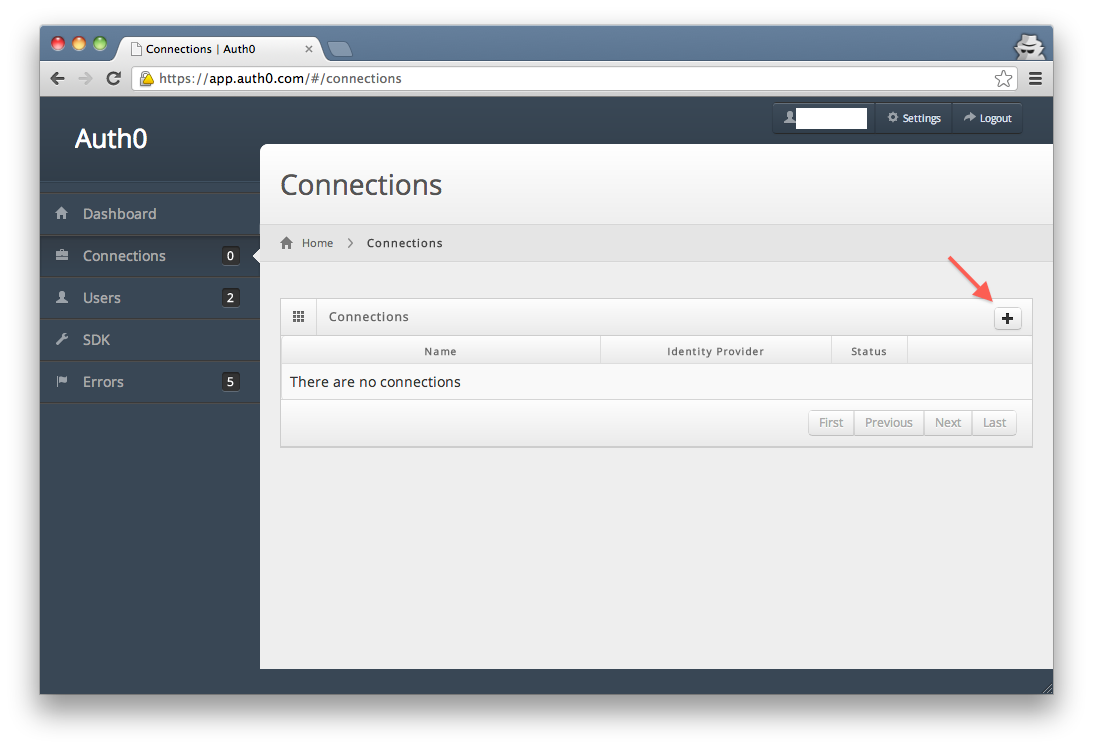
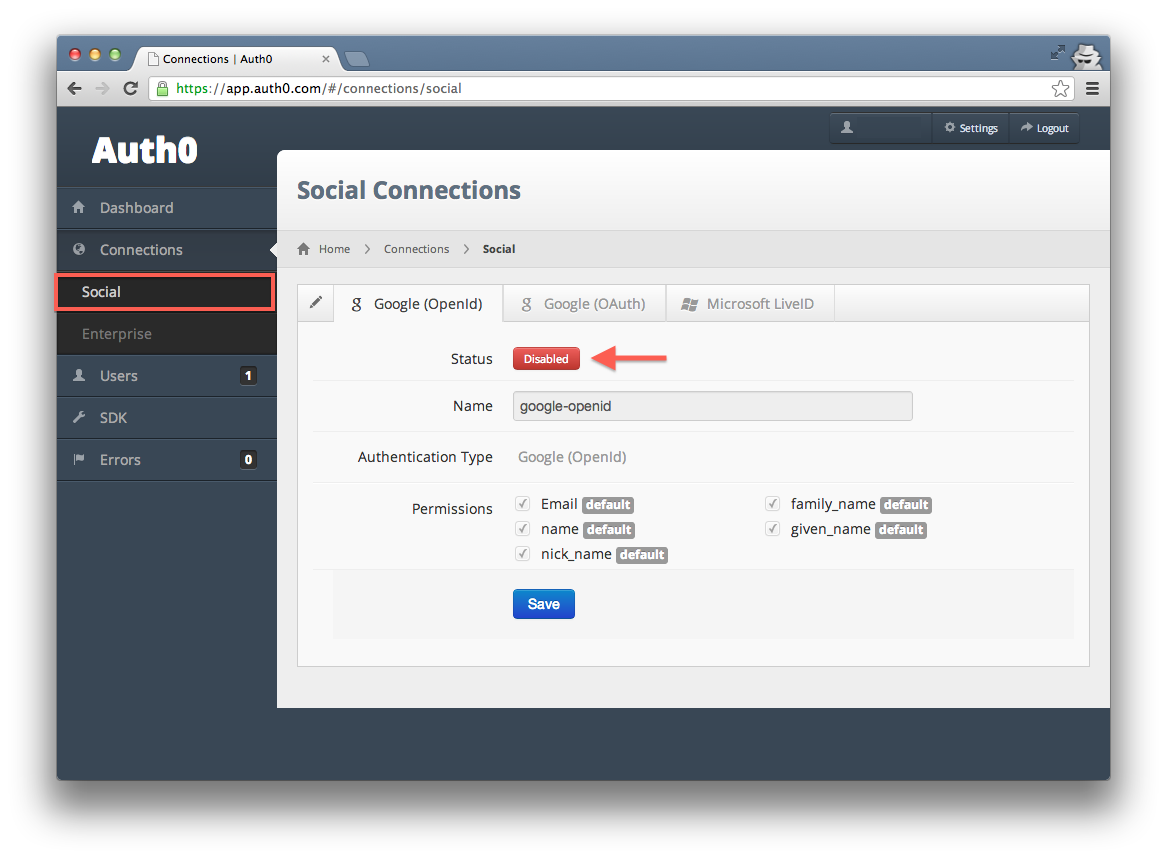
Fixed all connection related screenshots, updated all tutotrials

diff --git a/docs/mvc-tutorial.md b/docs/mvc-tutorial.md
@@ -1,6 +1,3 @@
----
-title: Auth0 and MVC4
----
 # Using Auth0 with ASP.NET MVC 4
 
 Integrating Auth0 with ASP.NET MVC4 is simple. MVC4 ships with out-of-the-box support for external identity providers using the [DotnetOpenAuth library](http://www.dotnetopenauth.net/). Auth0 plugs into this infrastructure.
@@ -8,40 +5,42 @@ Integrating Auth0 with ASP.NET MVC4 is simple. MVC4 ships with out-of-the-box su
 ##Before you start
 
 1. You will need Visual Studio 2012 and MVC4
-2. We also assume you have a [connection](https://app.auth0.com/#/connections) named "my-new-connection". If you don't have one, this [tutorial](createconnection) shows how to create one.
+2. We also assume you have Google OpenID enabled. If you haven't done so, this [tutorial](enable-simple-connection) shows how to do it.
 
 ##Integrating Auth0 with MVC4
 
 ####1. Create a simple MVC website and install Auth0 client
 
-For this example, we will use the standard template that ships with Visual Studio 2012. Just __"FILE -> New project -> MVC 4 Web Application"__
+For this example, we will use the standard template that ships with Visual Studio 2012. Select __"FILE -> New project -> MVC 4 Web Application"__
 
-Once the default template unfolds, use NuGet to install the Auth0Client:
+Once the default template unfolds, use NuGet to install the Auth0Client, running the command:
 
-![](http://markdownr.blob.core.windows.net/images/8210773982.png)
+	Install-Package Auth0Client
 
->__Auth0Client__ is a helper class that plugs into DotNetOpenAuth. Most of the heavylifting is actually done by the __OAuth2Client__ though. Our helper just makes sure you are using the right endpoints and sending the right parameters to Auth0.
+![](img/install-auth0client-nuget.png)
+
+> [__Auth0Client__](https://nuget.org/packages/Auth0Client) is a helper class that plugs into DotNetOpenAuth. Most of the heavylifting is actually done by the __OAuth2Client__ though. Our helper just makes sure you are using the right endpoints and sending the right parameters to Auth0.
 >
 
 ####2. Register Auth0Client in the Auth
 
-        public static class AuthConfig
+    public static class AuthConfig
+    {
+        public static void RegisterAuth()
         {
-            public static void RegisterAuth()
-            {
-                OAuthWebSecurity.RegisterClient(new Auth0Client(@@account.clientId@@, @@account.clientSecret@@}, @@account.namespace@@, "my-new-connection"), "Auth0", null);
+            OAuthWebSecurity.RegisterClient(new Auth0Client(@@account.clientId@@, @@account.clientSecret@@}, @@account.namespace@@, "google-openid"), "Auth0", null);
 
-                ...
+            ...
 
-            }
         }
+    }
 
-> Notice the `connection` parameter passed in the constructor of Auth0Client? This is used by Auth0 to determine which identity provider to use. This process is also known as the _"home realm discovery"_. The example above assumes you created a "my-new-connection" connection.  
+> Notice the `connection` parameter passed in the constructor of Auth0Client? This is used by Auth0 to determine which identity provider to use. This process is also known as the _"home realm discovery"_. The example above assumes you enabled the "google-openid" connection.  
 
 
 ####3. Setup the callback URL in Auth0
 
-Make sure the __callback address__ in Auth0 is configured with the app's callback URL. In this case it will be something like http://localhost:PORT
+Make sure the __callback address__ in Auth0 is configured with the app's callback URL. 
 
 ![](img/settings-callback.png)
  

diff --git a/docs/win8-tutorial.md b/docs/win8-tutorial.md
@@ -9,7 +9,7 @@ The sample uses the `implicit flow` protocol. See the [protocols](protocols) doc
 ##Before you start
 
 1. You will need Visual Studio 2012
-2. We also assume you have a [connection](https://app.auth0.com/#/connections) named "my-new-connection". If you don't have one, this [tutorial](createconnection) shows how to create one.
+2. We also assume you have Google OpenID enabled. If you haven't done so, this [tutorial](enable-simple-connection) shows how to do it.
 
 ##Integrating Auth0 with a WinRT JavaScript App
 
@@ -32,7 +32,7 @@ Open the __default.html__ file and paste the following content inside the `<body
             <input type="text" id="callbackUrl" value="https://localhost/client" />
             <br/>
             <label for="connection">Connection: </label>
-            <input type="text" id="connection" value="my-new-connection" />
+            <input type="text" id="connection" value="google-openid" />
             <br/>
             <br/><button class="action" id="start">Start</button>
             <br /><br />
@@ -108,7 +108,7 @@ Under the __js__ folder, create new file named __auth0.js__ with the following c
 
 ## Testing the app:
 
-Compile the App and run it. Assuming your connection (__my-new-connection__ in this turorial) is configured to use Google you will see the standard login screen:
+Compile the App and run it. Assuming your connection (__google-openid__ in this tutorial) is enabled, you should see the standard login screen:
 
 ![](img/win8-step2.png) 
 
@@ -119,7 +119,7 @@ After authentication the returned token will appear on the debug area together w
 Congratulations! 
 
 ## Adding more flexibility
-This tutorial works with a specific connection (__my-new-connection__). What if you have more than one connection, and you'd want to dynamically offer these connections as login options to your users? Auth0 makes it very easy with the Login Widget. 
+This tutorial works with a specific connection (__google-openid__). What if you have more than one connection, and you'd want to dynamically offer these connections as login options to your users? Auth0 makes it very easy with the Login Widget. 
 
 In the `StartAuthenticationMethod` replace the StartUri to:
 

diff --git a/docs/windowsphone-tutorial.md b/docs/windowsphone-tutorial.md
@@ -13,7 +13,7 @@ The sample works by intercepting the redirect to the __CALLBACK URL__ and parsin
 ##Before you start
 
 1. You will need Visual Studio 2012 with [Windows Phone 8 SDK development tools](http://go.microsoft.com/fwlink/?LinkId=265772)
-2. We also assume you have a [connection](https://app.auth0.com/#/connections) named "my-new-connection". If you don't have one, this [tutorial](createconnection) shows how to create one.
+2. We also assume you have Google OpenID enabled. If you haven't done so, this [tutorial](enable-simple-connection) shows how to do it.
 
 ##Integrating Auth0 with a Windows Phone 8 App
 
@@ -48,7 +48,7 @@ Open the __MainPage.xaml.cs__ file and replace the class definition with this on
 
         private const string RedirectUri = @"https://localhost/client";
         private const string ClientId = @"@@account.clientId@@";
-        private const string Connection = @"my-new-connection";
+        private const string Connection = @"google-openid";
 
         // Constructor
         public MainPage()
@@ -111,7 +111,7 @@ Open the __MainPage.xaml.cs__ file and replace the class definition with this on
 
 ## Testing the app:
 
-Compile the App and run it. Assuming your connection (__my-new-connection__ in this tutorial) is configured to use Google you will see the standard login screen:
+Compile the App and run it. Assuming your connection (__google-openid__ in this tutorial) is enabled, you should see the standard login screen:
 
 ![](img/wp8-step3.png) 
 
@@ -122,7 +122,7 @@ After authentication the user profile will be displayed on the screen:
 Congratulations!
 
 ## Adding more flexibility
-This tutorial works with a specific connection (__my-new-connection__). What if you have more than one connection and you want to dynamically offer these options? Auth0 makes it very easy. Redirect the user to the login URL:
+This tutorial works with a specific connection (__google-openid__). What if you have more than one connection and you want to dynamically offer these options? Auth0 makes it very easy. Redirect the user to the login URL:
 
      https://@@account.namespace@@/login/?client=@@account.clientId@@&response_type=token
 

diff --git a/docs/nodejs-tutorial.md b/docs/nodejs-tutorial.md
@@ -1,6 +1,3 @@
----
-title: Auth0 and Node
----
 # Using Auth0 with node.js
 
 Integrating Auth0 with node is straight forward. At the end of this tutorial you will have a working web site, capable of authenticating users with an external identity provider (no more passwords in your app!).
@@ -10,7 +7,7 @@ A complete video of this tutorial can be seen [here](nodejs-tutorial-video).
 ##Before you start
 
 1. We assume you have node.js installed and you are familiar with it.
-2. We also assume you have a [connection](https://app.auth0.com/#/connections) named "my_new_connection". If you don't have one, this [tutorial](createconnection) shows how to create one.
+2. We also assume you have Google OpenID enabled. If you haven't done so, this [tutorial](enable-simple-connection) shows how to do it.
 
 ##Integrating Auth0 with a Node app
 
@@ -107,20 +104,22 @@ The last bit of code you will need are the handlers for the passport callbacks:
 
 	//Login
 	app.get('/login', 
-		passport.authenticate('auth0', { connection: 'my-new-connection' }), 
+		passport.authenticate('auth0', { connection: 'google-openid' }), 
 		function (req, res) {
 		res.redirect("/");
 	});
 
-> Notice the `connection` parameter passed in the login? This is used by Auth0 to determine which identity provider to use. This process is also known as the _"home realm discovery"_. The example above assumes you created a _my-new-connection_ connection.  
+> Notice the `connection` parameter passed in the login? This is used by Auth0 to determine which identity provider to use. This process is also known as the _"home realm discovery"_. The example above assumes you enabled the _google-openid_ connection.  
 
 You are almost done! 
 
 #####4. Setup the callback URL in Auth0
 
-Did you keep your settings page open? Make sure the __callback address__ in Auth0 is configured with the app's callback URL:
+Did you keep your settings page open? Make sure the __App Callback URLs__ in Auth0 is configured with your app's callback URL:
 
 ![](img/settings-callback.png)
+
+> Notice that Auth0 supports many callbacks. Just use ',' as the delimiter.
 
 ## Testing the app:
 

diff --git a/docs/createconnection.md b/docs/createconnection.md
@@ -1,13 +1,33 @@
-# Creating a new Connection in Auth0
+# Adding and Enabling Connections in Auth0
 
-Connections represent a relationship between Auth0 and an identity provider. Follow these steps to create a new connection. This tutorial will use the simplest identity provider (Google OpenId) that requires no further configuration. 
+Connections represent a relationship between Auth0 and an identity provider. Auth0 supports common Enterprise Identity Providers. It also supports popular Social Identity Providers out of the box.
 
-> For all supported identity providers see [here](identityproviders)  
+> For all supported identity providers see [here](identityproviders)
+
+## Adding new Enterprise Connections
+
+###1. Login into Auth0
+Login and select the __Enterprise__ option under the __Connections__ tab. Click on the __Add Connection__ button:
+
+![](img/connection-add.png)
+
+###2. Choose the authentication type
+Each Identity Provider will require a different set of parameters. The [Identity Providers](identityproviders) section describes in detail each of these.
+
+
+
+
+## Enabling Social Connections
+
+Enterprise 
+Follow these steps to create a new connection. This tutorial will use the simplest identity provider (Google OpenId) that requires no further configuration. 
+
+  
 
 ##1. Login into Auth0
 Login and select the __Connections__ tab. Click on the __Add Connection__ button:
 
-![](img/connection-add.png)
+
 
 ##2. Select the Google OpenId 
 Name your connection and select Google OpenId as the identity provider:

diff --git a/docs/enable-simple-connection.md b/docs/enable-simple-connection.md
@@ -1,0 +1,29 @@
+# Enabling a Simple Connection in Auth0
+
+Connections represent a relationship between Auth0 and an identity provider. Auth0 supports common Enterprise Identity Providers. It also supports popular Social Identity Providers out of the box.
+
+> For all supported identity providers see [here](identityproviders)
+
+This tutorial will use the simplest identity provider (Google OpenId) that requires the no further configuration.
+
+##1. Login into Auth0
+Login and select the __Social__ option under the __Connections__ tab:
+
+![](img/connection-add.png)
+
+##2. Enable the Connection 
+Choose _Google (OpenID)_ and change status to __Enabled__. Notice the default user attributes supplied by Google OpenId.
+
+![](img/connection-add-idp-attributes.png)
+
+Save the connection. You are done!
+
+##3. Test the new connection
+Click on the __Test__ button:
+
+![](img/connection-add-idp-test.png)
+
+You will be redirected to Google for authentication and after that you will return to Auth0 where your user profile will be displayed:
+
+![](img/connection-add-idp-test-r.png)
+

diff --git a/docs/ios-tutorial.md b/docs/ios-tutorial.md
@@ -13,7 +13,7 @@ The sample works by intercepting the final redirect to the __CALLBACK URL__ and 
 ##Before you start
 
 1. You will XCode 4.5.2
-2. We also assume you have a [connection](https://app.auth0.com/#/connections) named "my-new-connection". If you don't have one, this [tutorial](createconnection) shows how to create one.
+2. We also assume you have Google OpenID enabled. If you haven't done so, this [tutorial](enable-simple-connection) shows how to do it.
 
 ##Integrating Auth0 with iOS
 
@@ -332,7 +332,7 @@ Using the library is straight forward:
         }
     }];
 
-> Remember that the 'callBackUrl' must be defined in your Auth0 [settings](https://app.auth0.com/#/settings). This sample uses __https://localhost/client__
+> Remember that the `returnUrl` parameter must also be efined in your Auth0 [settings](https://app.auth0.com/#/settings). This sample uses __https://localhost/client__
 
 Congratulations!
 

diff --git a/docs/servicestack-tutorial.md b/docs/servicestack-tutorial.md
@@ -8,7 +8,7 @@ Integrating Auth0 with ServiceStack is straight forward. At the end of this tuto
 ##Before you start
 
 1. We assume you have [ServiceStack](http://www.servicestack.net/) installed and you are familiar with it.
-2. We also assume you have a [connection](https://app.auth0.com/#/connections) named "my-new-connection". If you don't have one, this [tutorial](a0-createconnection) shows how to create one.
+2. We also assume you have a [connection](https://app.auth0.com/#/connections) either enabled or created. If you don't have one, this [tutorial](enable-simple-connection) shows how to enabe Google OpenID, the simplest possible connection.
 
 ##Integrating Auth0 with a ServiceStack app
 
